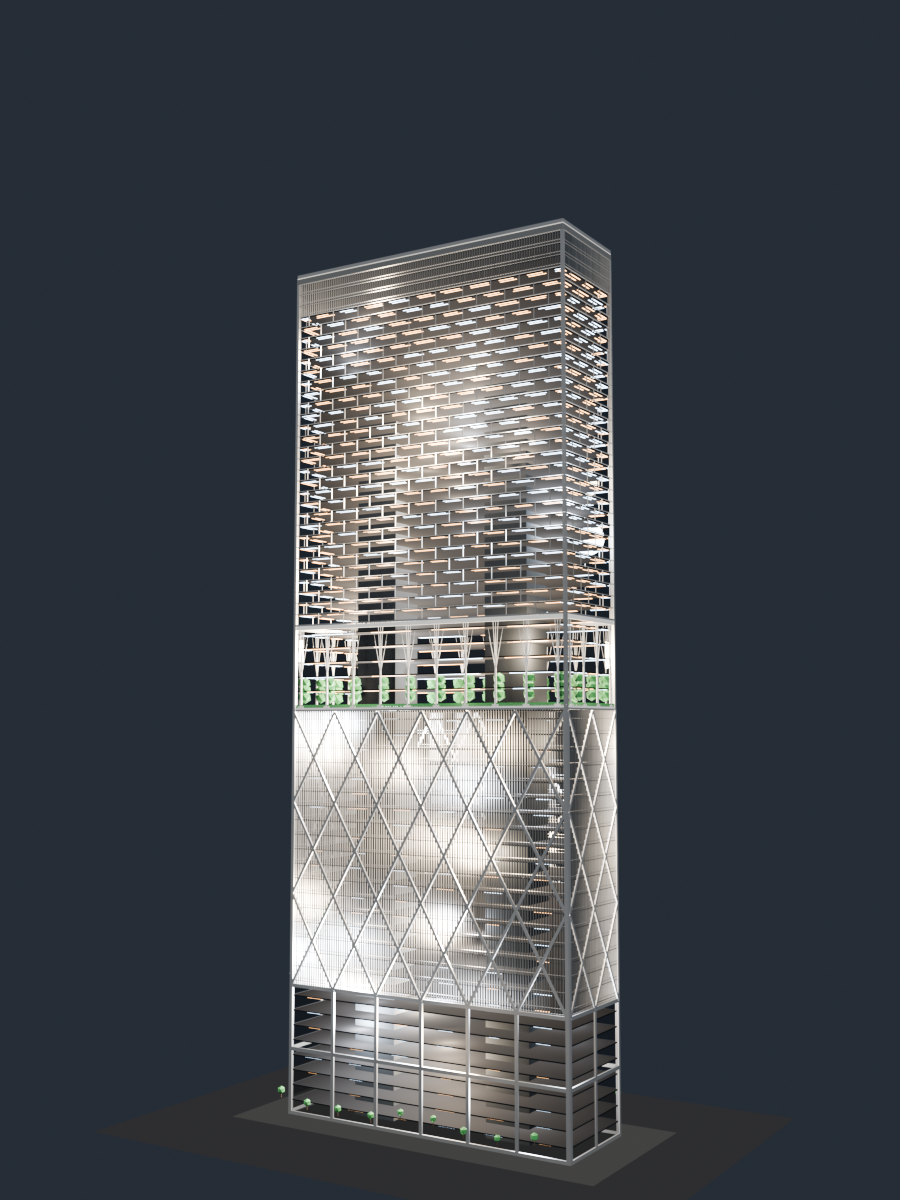
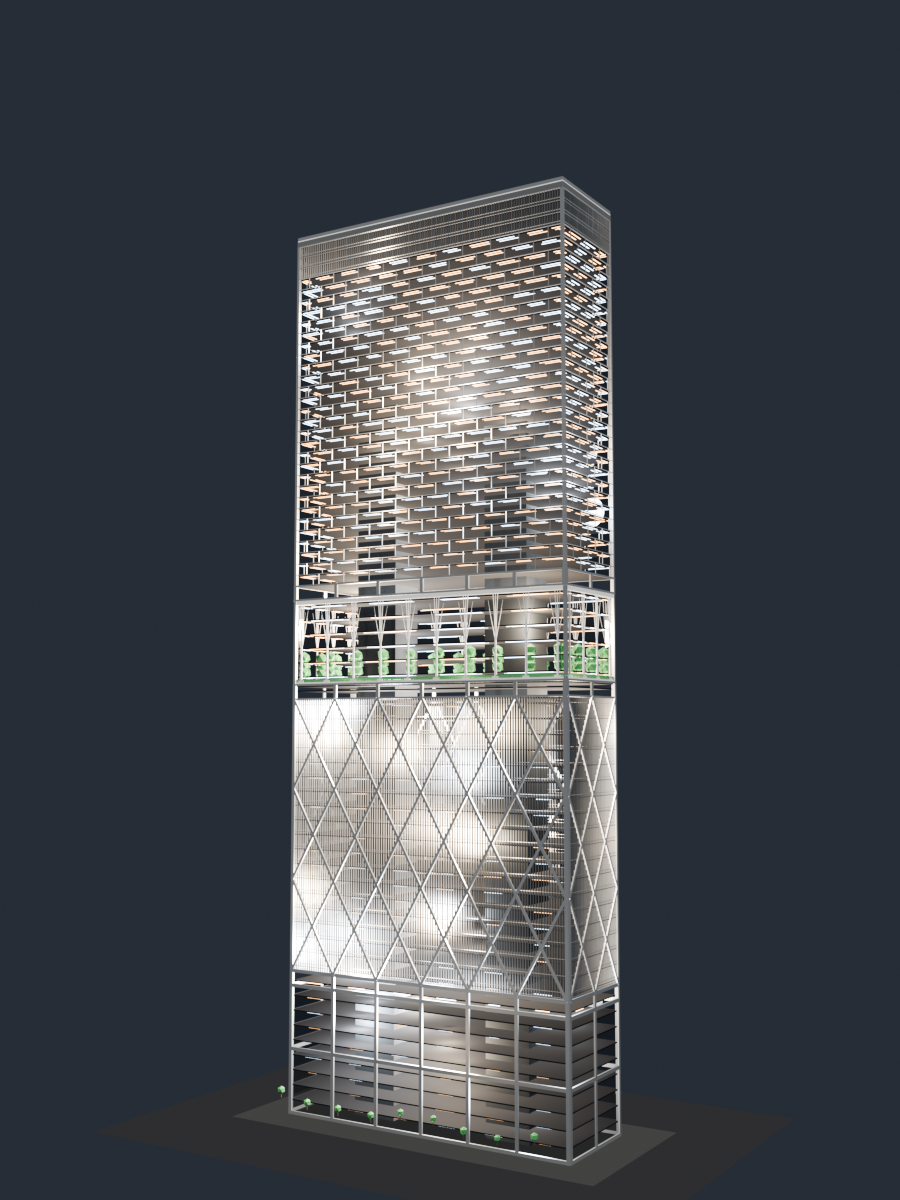
feat: put five-metre refuge floors between the Stack 3 zones
One empty floor now sits between the mall and the office, one between the office
and the planted level, and one between the planted level and the apartments.
They carry the frame and its columns but no glazing at all, so each zone reads as
its own stack. Roof moves to 308 m.

Changed region(s): [[0.3111, 0.1233, 0.6844, 0.8633]]

diff --git a/build_stack3.py b/build_stack3.py
@@ -59,7 +59,7 @@ PREFIX = "Stack3_"
 # ---------------------------------------------------------------------------
 # Frozen envelope and program
 # ---------------------------------------------------------------------------
-ROOF = 294.0              # flat roof deck; the stepped crown is gone
+ROOF = 308.0              # flat roof deck; the stepped crown is gone
 PARAPET_H = 1.2
 HEIGHT = ROOF + 0.4 + PARAPET_H    # 335.6 to the top of the parapet
 WIDTH = 108.0
@@ -68,18 +68,21 @@ HALF_W, HALF_D = WIDTH / 2.0, DEPTH / 2.0
 
 STOREY = 4.0            # apartment storey (and the block module)
 STOREY_LOW = 5.0        # base / diagrid / plaza storey: 5 m, fewer floors
+REFUGE_H = 5.0          # one empty floor between two zones, frame only
 
 
 def floor_levels():
     """Floor plates: 5 m storeys below the apartments, 4 m within them."""
-    return ([z for z in range(5, 168, 5)]
-            + [z for z in range(168, 293, 4)])
+    return ([z for z in range(5, 178, 5)]
+            + [z for z in range(182, 307, 4)])
 BAY = 3.6               # facade mullion module on the glazed bands
 
 BANDS = (
-    ("Lattice", 0.0, 138.0),
-    ("Plaza", 138.0, 168.0),
-    ("Apartments", 168.0, 294.0),
+    ("Lattice", 0.0, 142.0),
+    ("Refuge B", 142.0, 147.0),
+    ("Plaza", 147.0, 177.0),
+    ("Refuge C", 177.0, 182.0),
+    ("Apartments", 182.0, 308.0),
 )
 BAND = {name: (z0, z1) for name, z0, z1 in BANDS}
 
@@ -462,33 +465,64 @@ def office_frames(mats, col, prefix, z0, z1):
     sill.finish()
 
 
+def build_refuge(mats, cols, name):
+    """A five-metre refuge floor between two zones: the frame and its columns
+    carry straight through, but there is no glazing at all."""
+    z0, z1 = BAND[name]
+    col = cols["Refuge"]
+    inset, bays = 0.62, 6
+    tag = name.replace(" ", "_")
+
+    frame = Part(tag + "_Frame", mats["silver"], col)
+    for face in FACES:
+        half = face_half(face)
+        hw = half - inset
+        n = bays if face in LONG_FACES else 2
+        for i in range(n + 1):
+            u = -hw + i * 2 * hw / n
+            frame.face_box(face, u - inset, u + inset, z0, z1, -0.34, 0.60)
+        for z in (z0, z1):
+            frame.face_box(face, -half, half, z - 0.35, z + 0.35,
+                           -0.34, 0.60)
+    frame.finish()
+
+    slab = Part(tag + "_Slab", mats["slate"], col)
+    for face in FACES:
+        half = face_half(face)
+        slab.face_box(face, -half, half, z0 - 0.30, z0 + 0.10, -0.56, 0.26)
+    slab.finish()
+
+
 def build_lattice(mats, cols, rng):
-    """The lower block: a big external frame, two mall tiers of very large glass
-    at the foot and three tiers of X bracing above, with Stack 2's office
-    curtain wall behind the braced part."""
+    """The lower block: two mall tiers of very large glass, a five-metre refuge
+    floor that keeps the frame but has no glass, then three tiers of X bracing
+    with Stack 2's office curtain wall behind them."""
     z0, z1 = BAND["Lattice"]
     col = cols["Lattice"]
-    bays, tiers, base_tiers = 6, 5, 2
+    bays, base_tiers = 6, 2
     inset = 0.62
-    base_tier = 21.35                     # mall tiers: two floors shorter
-    base_top = z0 + inset + base_tiers * base_tier
-    x_tier = ((z1 - z0) - 2 * inset - base_tiers * base_tier) / (
-        tiers - base_tiers)
+    mall_tier = 21.35
+    mall_top = z0 + inset + base_tiers * mall_tier
+    refuge_top = mall_top + REFUGE_H
+    x_tier = (z1 - refuge_top) / 3.0
 
     glass = Part("Lattice_Glass", mats["glass_deep"], col)
     for face in FACES:
         half = face_half(face)
-        glass.face_box(face, -half, half, z0 + 0.2, z1 - 0.2, -0.12, 0.12)
+        glass.face_box(face, -half, half, z0 + 0.2, mall_top - 0.1,
+                       -0.12, 0.12)
+        glass.face_box(face, -half, half, refuge_top + 0.1, z1 - 0.2,
+                       -0.12, 0.12)
     glass.finish()
 
-    # Office window frame above the mall only.
-    office_frames(mats, col, "Lattice", base_top, z1)
+    # Office window frame above the refuge only.
+    office_frames(mats, col, "Lattice", refuge_top, z1)
 
     band = Part("Lattice_Slab_Edges", mats["slate"], col)
     for face in FACES:
         half = face_half(face)
         for z in [0.0] + [lev for lev in floor_levels()
-                          if 0.0 < lev < base_top - 0.5]:
+                          if 0.0 < lev < mall_top - 0.5]:
             lo = 0.0 if z <= 0.0 else z - 0.32
             hi = 0.40 if z <= 0.0 else z + 0.08
             band.face_box(face, -half, half, lo, hi, -0.56, 0.26)
@@ -501,10 +535,10 @@ def build_lattice(mats, cols, rng):
         n = bays if face in LONG_FACES else 2
         for i in range(n + 1):
             u = -hw + i * 2 * hw / n
-            top = z1 if i in (0, n) else base_top
+            top = z1 if i in (0, n) else refuge_top
             frame.face_box(face, u - inset, u + inset, z0, top, -0.34, 0.60)
-        for j in range(base_tiers + 1):
-            z = z0 + inset + j * base_tier
+        for z in ([z0 + inset + j * mall_tier for j in range(base_tiers + 1)]
+                  + [refuge_top]):
             frame.face_box(face, -half, half, z - inset, z + inset,
                            -0.34, 0.60)
     frame.finish()
@@ -516,10 +550,10 @@ def build_lattice(mats, cols, rng):
         n = bays if face in LONG_FACES else 2
         du = 2 * hw / n
         for i in range(n):
-            for j in range(tiers - base_tiers):
+            for j in range(3):
                 u0 = -hw + i * du
                 u1 = u0 + du
-                za = base_top + j * x_tier
+                za = refuge_top + j * x_tier
                 zb = za + x_tier
                 brace.bar(fp(face, u0, za, -0.05), fp(face, u1, zb, -0.05),
                           0.66, 0.95)
@@ -532,10 +566,9 @@ def build_lattice(mats, cols, rng):
     rails = Part("Lattice_Base_Rails", mats["silver"], col)
     for face in FACES:
         half = face_half(face)
-        rail_h = 0.62
         for j in range(base_tiers + 1):
-            z = z0 + inset + j * base_tier
-            rails.face_box(face, -half, half, z - rail_h, z + rail_h,
+            z = z0 + inset + j * mall_tier
+            rails.face_box(face, -half, half, z - 0.62, z + 0.62,
                            -0.34, 0.60)
     rails.finish()
 
@@ -1065,8 +1098,8 @@ def build(args):
 
     root = bpy.data.collections.new("STACK3")
     scene.collection.children.link(root)
-    names = ("Site", "Structure", "Lattice", "Plaza", "Apartments",
-             "Roof", "Lighting")
+    names = ("Site", "Structure", "Lattice", "Refuge", "Plaza",
+             "Apartments", "Roof", "Lighting")
     cols = {name: sub_collection(root, "STACK3_" + name) for name in names}
 
     mats = build_materials(args.night)
@@ -1075,7 +1108,9 @@ def build(args):
     build_floors(mats, cols)
     build_cornices(mats, cols)
     build_lattice(mats, cols, rng)
+    build_refuge(mats, cols, "Refuge B")
     build_garden_band("Plaza", mats, cols, 11.8, rng)
+    build_refuge(mats, cols, "Refuge C")
     build_apartments(mats, cols, rng)
     build_roof(mats, cols)
 

diff --git a/verify_stack3.py b/verify_stack3.py
@@ -85,17 +85,17 @@ def main():
             "Lattice", "Plaza", "Apartment")),
         "plan is 108 m wide": abs((x1 - x0) - WIDTH) <= 2 * FACADE_RELIEF,
         "plan is 36 m deep": abs((y1 - y0) - DEPTH) <= 2 * FACADE_RELIEF,
-        "flat roof deck at 294 m": abs(z_span("Roof_Deck")[1] - 294.4) < 0.05,
-        "parapet tops at 295.6 m": abs(z1 - (294.0 + 0.4 + 1.2)) < 0.05,
+        "flat roof deck at 308 m": abs(z_span("Roof_Deck")[1] - 308.4) < 0.05,
+        "parapet tops at 309.6 m": abs(z1 - (308.0 + 0.4 + 1.2)) < 0.05,
         "slab sits on the ground": abs(z0) <= 0.02,
         "facade stays within its relief band": overhang <= FACADE_RELIEF,
-        "lattice glass 0-138 m": abs(z_span("Lattice_Glass")[0] - 0.2) < 0.05
-        and abs(z_span("Lattice_Glass")[1] - 137.8) < 0.05,
+        "lattice glass 0-142 m": abs(z_span("Lattice_Glass")[0] - 0.2) < 0.05
+        and abs(z_span("Lattice_Glass")[1] - 141.8) < 0.05,
         "lattice carries a frame and X braces": (
             present("Lattice_Frame") and present("Lattice_Braces")),
-        "lattice braces start above the mall glass": (
-            42.5 <= z_span("Lattice_Braces")[0] <= 43.8
-            and 137.0 <= z_span("Lattice_Braces")[1] <= 137.9),
+        "lattice braces start above the refuge": (
+            47.8 <= z_span("Lattice_Braces")[0] <= 49.0
+            and 141.0 <= z_span("Lattice_Braces")[1] <= 142.6),
         "bottom two tiers are framed cells, not X": (
             present("Lattice_Base_Rails")
             and abs(z_span("Lattice_Base_Rails")[0] - 0.0) < 0.05
@@ -105,12 +105,12 @@ def main():
         "no fin band or old base remains": not any(
             n.startswith("Stack3_Office") or n.startswith("Stack3_Hotel")
             or n.startswith("Stack3_Base") for n in names),
-        "plaza arcade 138-168 m": abs(z_span("Plaza_Trees")[0] - 138.35) < 0.1,
-        "glazed apartment bays 168-280 m": (
-            168.0 <= z_span("Apartment_Glass_S")[0] <= 168.4
-            and 279.6 <= z_span("Apartment_Glass_S")[1] <= 280.0),
-        "attic closes the band at 294 m":
-        z_span("Apartment_Topband")[1] == 294.0,
+        "plaza arcade 147-177 m": abs(z_span("Plaza_Trees")[0] - 147.35) < 0.1,
+        "glazed apartment bays 182-294 m": (
+            182.0 <= z_span("Apartment_Glass_S")[0] <= 182.4
+            and 293.6 <= z_span("Apartment_Glass_S")[1] <= 294.0),
+        "attic closes the band at 308 m":
+        z_span("Apartment_Topband")[1] == 308.0,
         "nothing stands above the roof": not any(
             n.startswith("Stack3_Crown") for n in names),
         "two long-axis cores": (
@@ -118,7 +118,7 @@ def main():
             and abs(bbox([bpy.data.objects["Stack3_Structure_Cores"]])[1] - 34.0) < 0.1),
         "floor plates: 5 m below, 4 m in the apartments": (
             abs(z_span("Structure_Floors")[0] - 4.65) < 0.05
-            and abs(z_span("Structure_Floors")[1] - 292.0) < 0.05),
+            and abs(z_span("Structure_Floors")[1] - 306.0) < 0.05),
         "shallow slab reads as a slab": (WIDTH / DEPTH) > 2.6,
         "every mesh has a material": all(o.data.materials for o in meshes),
         "closed meshes": boundary_edges == 0,
@@ -132,7 +132,7 @@ def main():
         "portrait review frames": scene.render.resolution_x == 900
         and scene.render.resolution_y == 1200,
         "reference recorded": "mvrdv.com" in scene.get("reference_urls", ""),
-        "band program recorded": len(scene.get("bands", "").split(",")) == 3,
+        "band program recorded": len(scene.get("bands", "").split(",")) == 5,
         "object count in range": 40 <= len(meshes) <= 110,
     }
 

diff --git a/README.md b/README.md
@@ -238,34 +238,30 @@ parapet). That is a 2.80 : 1 wide elevation, squatter than the published sheet
 (3.09 : 1) because the lower block lost one lattice tier at the client's
 direction, but it keeps the 36 m depth.
 
-Three bands, bottom to top, each a different facade system, with metal cornices
-as the "stack" lines between them. Below the apartments the storey is 5 m, so the
-lower block carries 37 floors in that height; the apartments keep their 4 m
-module and run 28 floors.
+Bands, bottom to top, each a different facade system, with metal cornices as the
+"stack" lines between them. Below the apartments the storey is 5 m; the
+apartments keep their 4 m module and run 31 floors.
 
-- **Lattice, 0-138 m.** The whole lower block is one facade: an external frame six
-  bays wide by five tiers tall. The bottom two tiers are framed cells - six big
-  glazed squares per row, closed by thick members, no X, and left as very large
-  bare glass (a mall, no window grid) - while the upper three tiers are diagonal
-  only: an X in every cell, no intermediate verticals and no
-  horizontal bands, just the corner posts and the diamond grid. The frame carries vertical posts only: no added horizontal
-  band, the floor line is the dark slab edge itself; every floor plate in the
-  model is near-black. Behind it is one dark glass skin with no visible pane
-  joints at all: a fine vertical curtain wall of 1.25 m panes - 4:1 with the
-  5 m storey. Above the mall base the window frame is Stack 2's office curtain
-  wall: 140 mm mullions
-  by 600 mm deep on a 0.95 m module, a 100 mm transom on every floor and a
-  second one a metre above it, and the dark 100 mm sill at the foot of every
-  storey - Stack 2's office band item for item. Every floor, here and in the planted level, is
-  lit the same way as the apartments: one cool-or-warm ceiling strip per room.
-- **Plaza, 138-168 m.** A planted arcade of branching tree columns and planting,
-  open through - no interior wall - with the same room strips on its floors.
-- **Apartments, 168-294 m.** A semi-transparent glazed skin drawn as a staggered
+- **Mall, 0-43.3 m.** The two lowest tiers of the big external frame, six bays of
+  very large bare glass per row (about 18 x 21 m), no window grid - the shopping
+  floors.
+- **Refuge, 43.3-48.3 m.** One empty 5 m floor between the mall and the office:
+  the frame and its columns carry straight through, there is no glazing at all.
+- **Office, 48.3-142 m.** The upper three tiers of the same frame, diagonal only -
+  an X in every cell, no intermediate verticals and no horizontal bands - with
+  Stack 2's office curtain wall behind it: 140 x 600 mm mullions on a 0.95 m
+  module, a 100 mm transom on every floor and a second one a metre above, plus
+  the dark sill. Every floor is lit with one cool-or-warm ceiling strip per room.
+- **Refuge, 142-147 m.** A second empty floor, frame only.
+- **Plaza, 147-177 m.** A planted arcade of branching tree columns, open through -
+  no interior wall - with the same room strips on its floors.
+- **Refuge, 177-182 m.** A third empty floor, frame only.
+- **Apartments, 182-308 m.** A semi-transparent glazed skin drawn as a staggered
   block grid: every bay is one 4 m storey of glass, laid in a half-bond running
-  course, and the external frame around the bays is the window pattern itself -
-  there are no punched openings. Three near-identical glass tints and a lit
-  ceiling in every bay keep it reading as apartments at dusk - no wall behind the
-  glass. A two-metre metal fascia closes the grid at the roof.
+  course, and the external frame around the bays is the window pattern itself.
+  The top three floors switch to the office curtain wall. A two-metre metal
+  fascia closes the grid at the roof.
+- **Flat roof, 308 m.** One deck slab and a 1.2 m parapet (309.6 m).
 - **Night lighting.** Six studio area lights outside, plus 48 simulated interior
   point lights scattered at random plan positions and heights standing in for
   the thousands of fixtures, warm and cool. Floor plates neither take light nor cast shadow, so the interior
